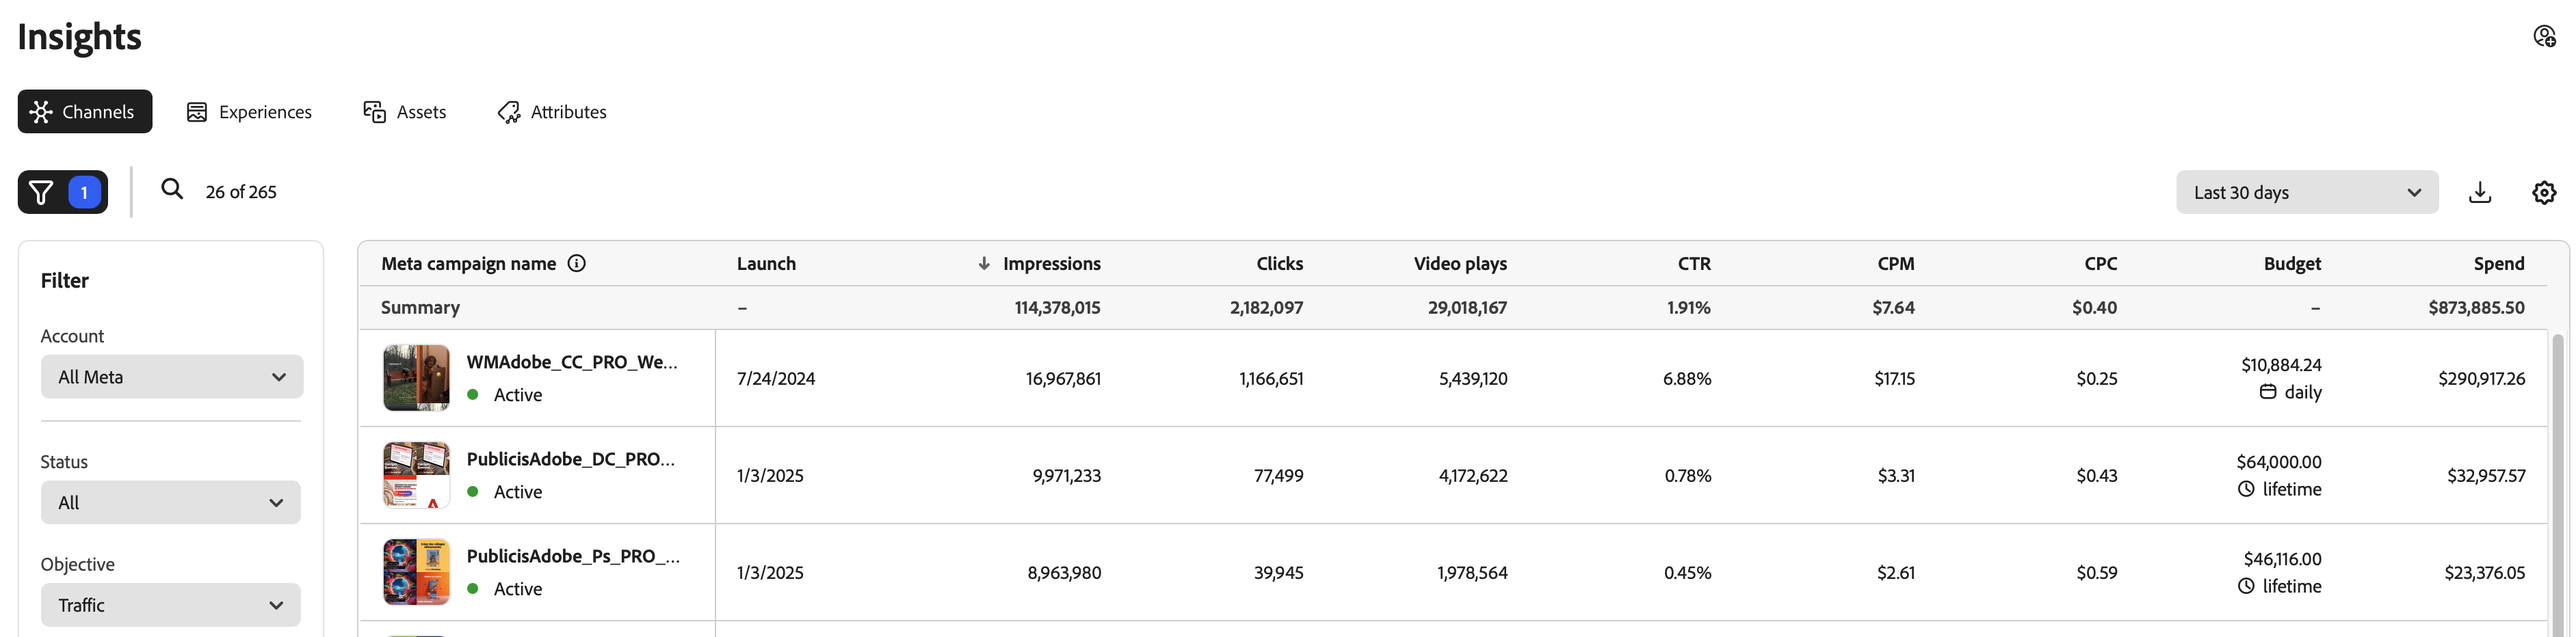
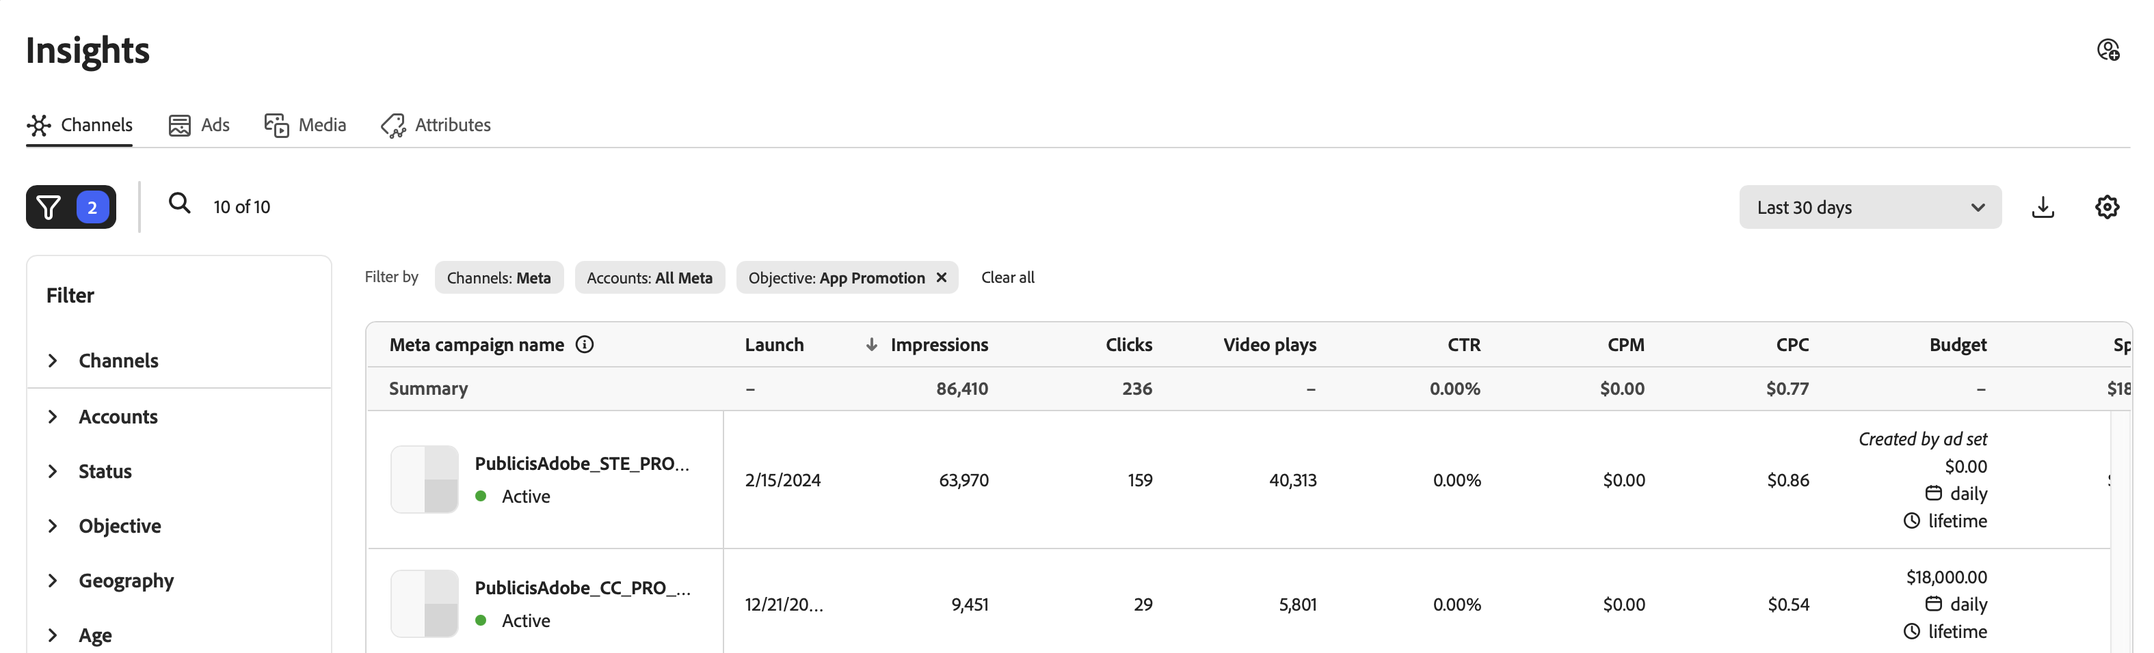
update filter comment

diff --git a/help/user-guide/insights/media.md b/help/user-guide/insights/media.md
@@ -10,7 +10,7 @@ The [!DNL Insights] _[!UICONTROL Media]_ view shows a list of media used in ads 
 
 {{connect-insights}}
 
-The _[!UICONTROL Media]_ table is organized using **[!UICONTROL Media ID]**. You can toggle between the views using the view list (table) icon and the gallery view (grid) icon. Click the settings (cog) icon above the right side of the table to toggle the viewable columns. The filter (funnel) icon above the left side of the table opens the **[!UICONTROL Filter]** menu where you can select from multiple lists. Click **Reset** to clear all filter selections.
+The _[!UICONTROL Media]_ table is organized using **[!UICONTROL Media ID]**. You can toggle between the views using the view list (table) icon and the gallery view (grid) icon. Click the settings (cog) icon above the right side of the table to toggle the viewable columns. The filter (funnel) icon above the left side of the table opens the **[!UICONTROL Filter]** menu where you can select from multiple lists. Select **[!UICONTROL Clear all]** above the table to remove all filters.
 
 ![Media filter and table](/help/assets/insights-assets-filter.png){zoomable="yes"}
 

diff --git a/help/user-guide/insights/attributes.md b/help/user-guide/insights/attributes.md
@@ -12,7 +12,7 @@ The [!DNL Insights] _[!UICONTROL Attributes]_ view shows a list of attributes us
 
 The _[!UICONTROL Attributes]_ table is organized using the [!UICONTROL Attribute] name. You can toggle between the list types using the **[!UICONTROL Images]** button and the **[!UICONTROL Video]** button. Click the settings (cog) icon above the right side of the table to toggle the viewable columns.
 
-The filter (funnel) icon above the left side of the table opens the **[!UICONTROL Filter]** menu where you can select from the [!UICONTROL Account] and [!UICONTROL Attribute category] to filter the attributes in the table. The following example shows a list of attributes in the `Lighting Condition` category. Click **Reset** to clear all filter selections.
+The filter (funnel) icon above the left side of the table opens the **[!UICONTROL Filter]** menu where you can select from multiple lists. Select **[!UICONTROL Clear all]** above the table to remove all filters.
 
 ![Attributes filter and table](/help/assets/insights-attributes-filter.png){zoomable="yes"}
 

diff --git a/help/user-guide/insights/channels.md b/help/user-guide/insights/channels.md
@@ -10,7 +10,7 @@ The [!DNL Insights] _[!UICONTROL Channels]_ view shows a list of campaigns for t
 
 {{connect-insights}}
 
-The _[!UICONTROL Channels]_ table is organized using the channel-based ad campaign. Click the settings (cog) icon above the right side of the table to toggle the viewable columns. The filter (funnel) icon above the left side of the table opens the **[!UICONTROL Filter]** menu where you can select from the [!UICONTROL Account], [!UICONTROL Status], and [!UICONTROL Objective] lists to filter the campaigns in the table.
+The _[!UICONTROL Channels]_ table is organized using the channel-based ad campaign. Click the settings (cog) icon above the right side of the table to toggle the viewable columns. The filter (funnel) icon above the left side of the table opens the **[!UICONTROL Filter]** menu where you can select from multiple lists. Select **[!UICONTROL Clear all]** above the table to remove all filters.
 
 ![Channels filter and table](/help/assets/insights-channels-filter.png){zoomable="yes"}
 

diff --git a/help/user-guide/insights/ads.md b/help/user-guide/insights/ads.md
@@ -10,7 +10,7 @@ The [!DNL Insights] _[!UICONTROL Ads]_ view shows a list of ads for the connecte
 
 {{connect-insights}}
 
-The _[!UICONTROL Ads]_ table is organized using [!UICONTROL Ad names]. Click the settings (cog) icon above the right side of the table to toggle the viewable columns. The filter (funnel) icon above the left side of the table opens the **[!UICONTROL Filter]** menu where you can select from the [!UICONTROL Account] and [!UICONTROL Campaign] lists to filter the ad names in the table. Click **Reset** to clear all filter selections.
+The _[!UICONTROL Ads]_ table is organized using [!UICONTROL Ad names]. Click the settings (cog) icon above the right side of the table to toggle the viewable columns. The filter (funnel) icon above the left side of the table opens the **[!UICONTROL Filter]** menu where you can select from multiple lists. Select **[!UICONTROL Clear all]** above the table to remove all filters.
 
 ![Ads filter and table](/help/assets/insights-experiences-filter.png){zoomable="yes"}
 
